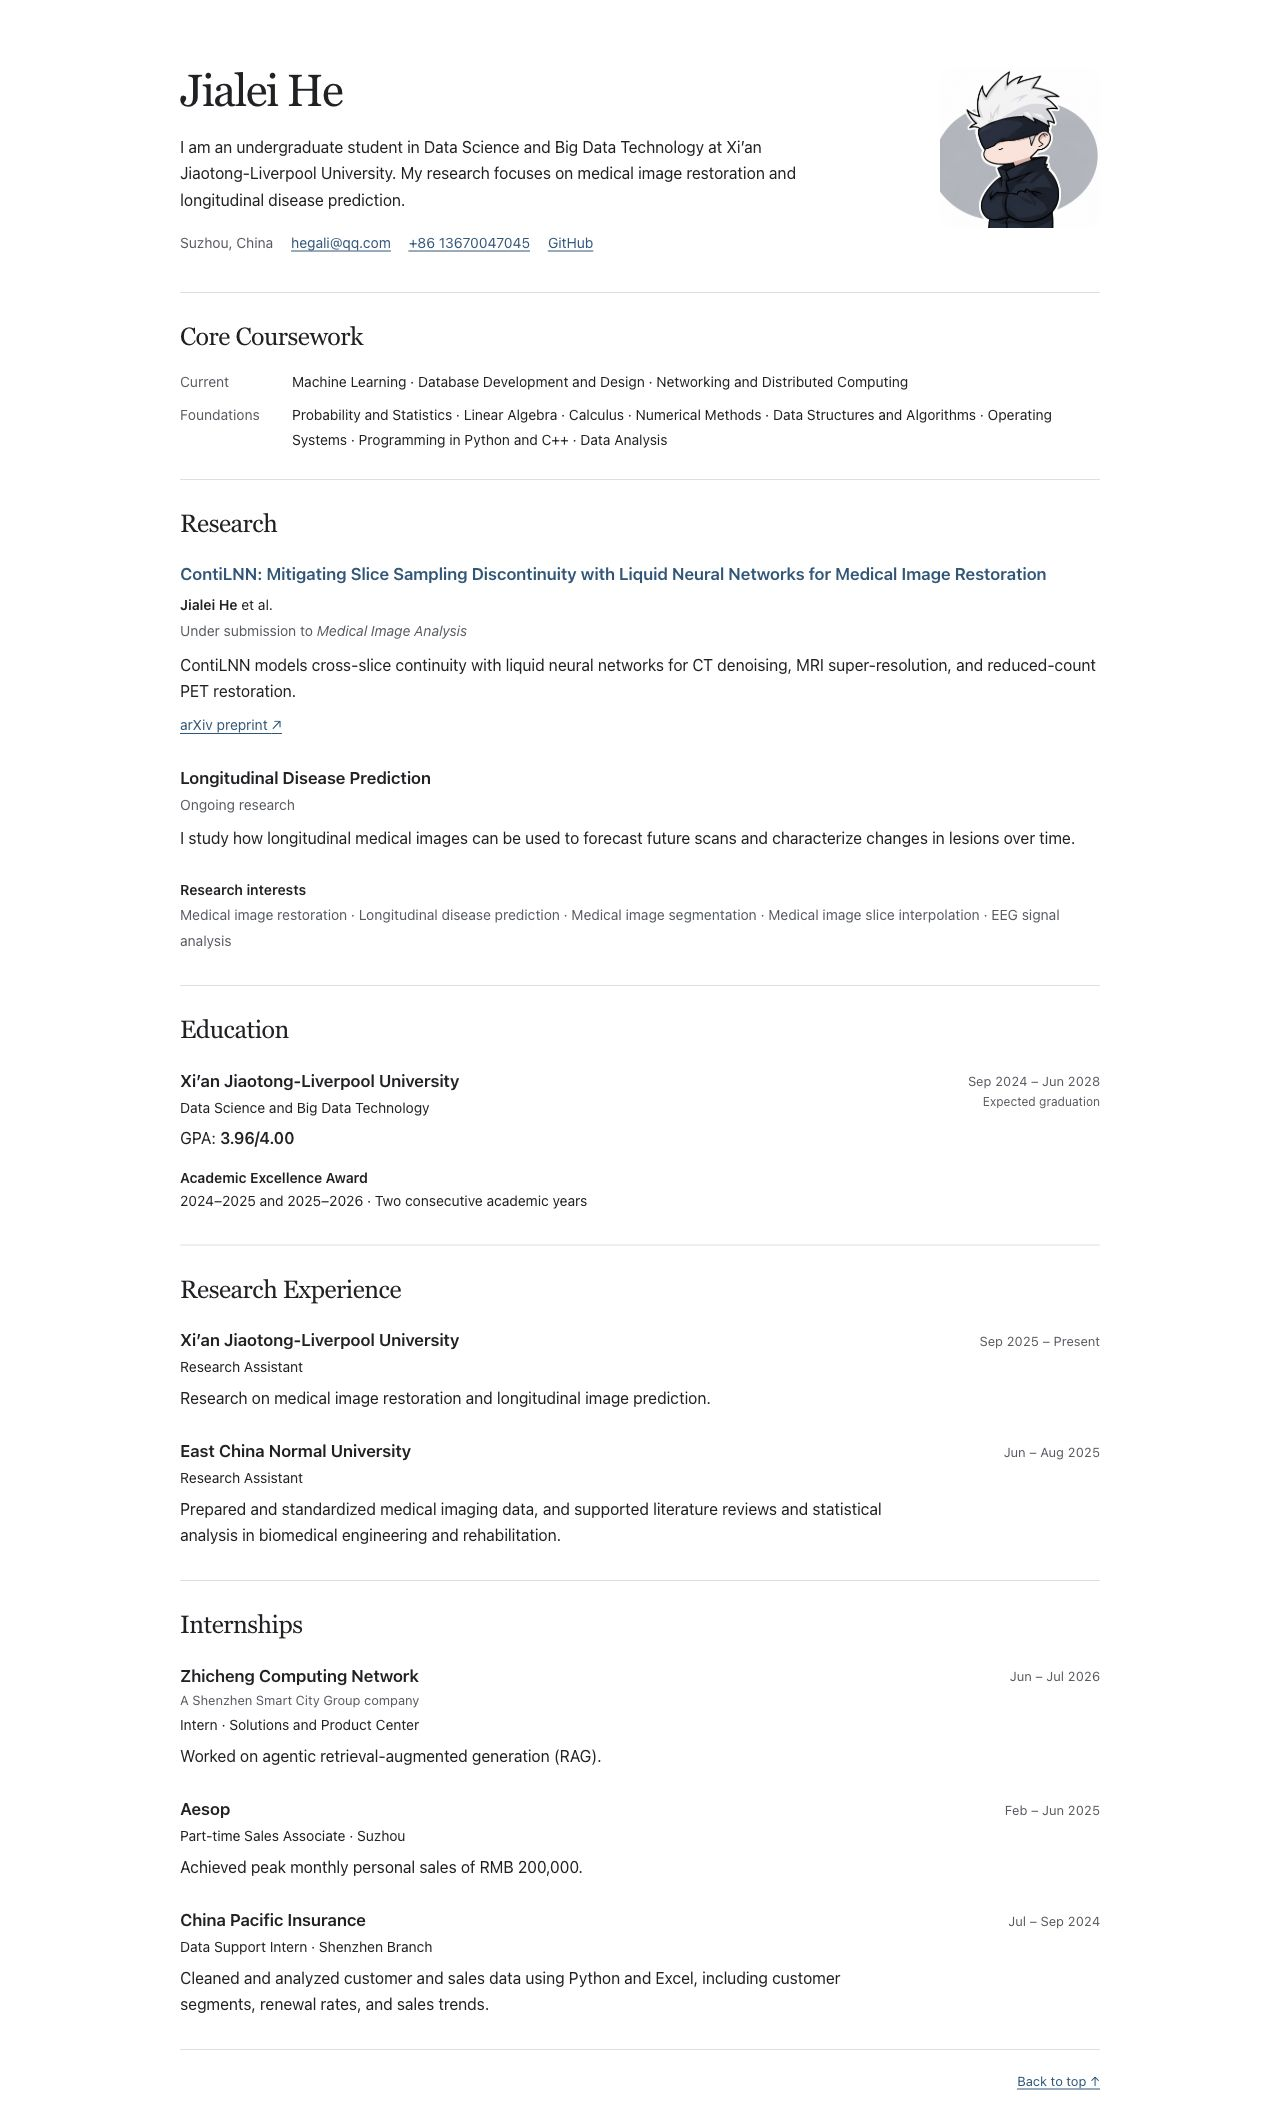
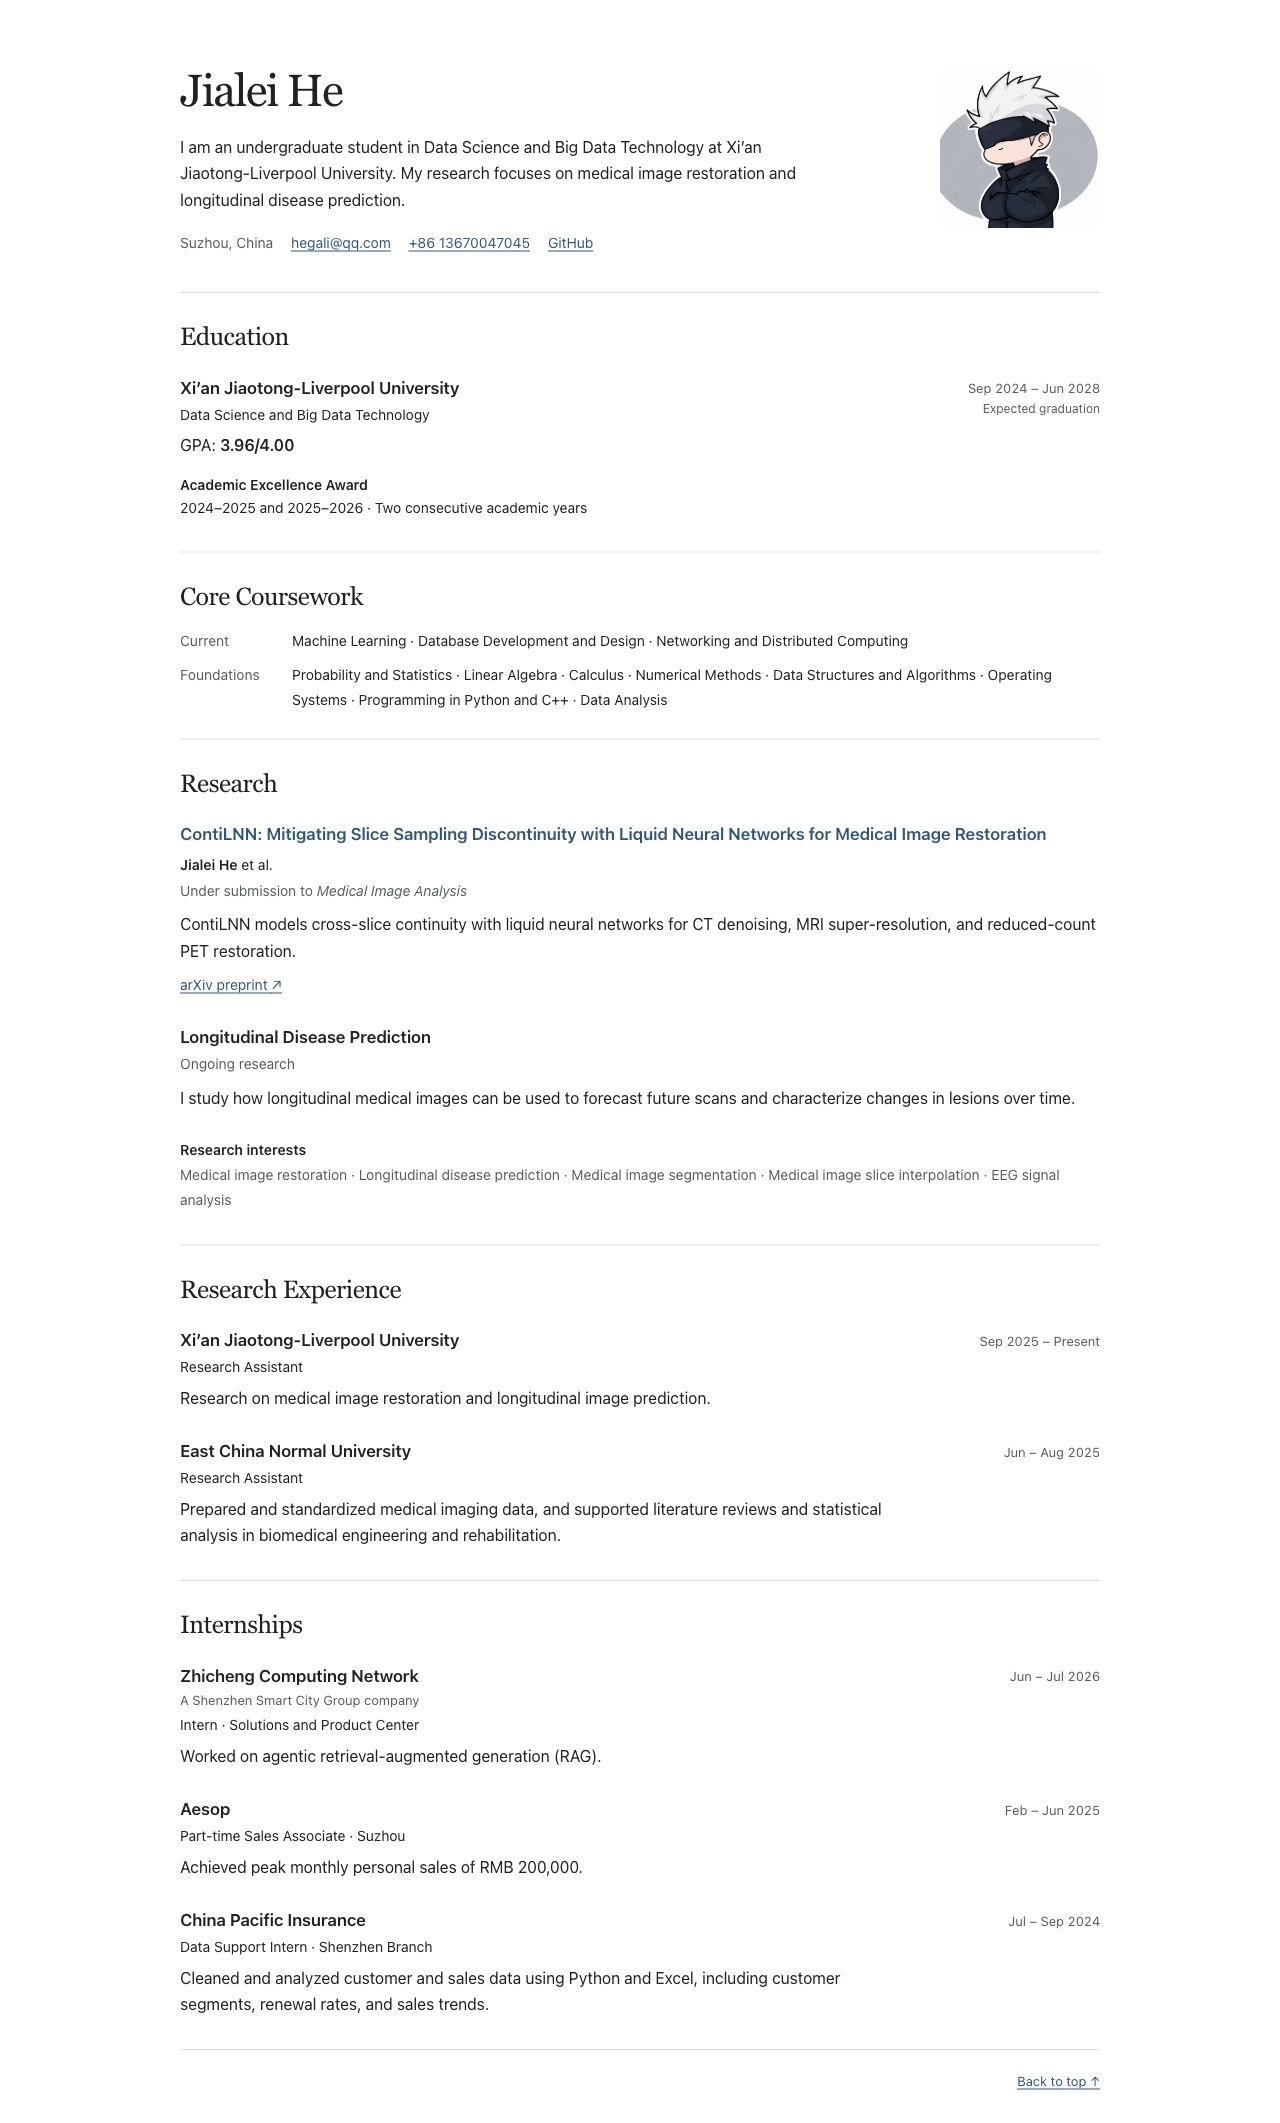
Place education before core coursework

diff --git a/index.html b/index.html
@@ -12,7 +12,7 @@
   <link rel="stylesheet" href="styles.css?v=20261018">
 </head>
 <body>
-  <a class="skip-link" href="#coursework">Skip to content</a>
+  <a class="skip-link" href="#education">Skip to content</a>
   <main>
     <header class="profile" aria-labelledby="name">
       <div class="profile-text">
@@ -27,6 +27,19 @@
       </div>
       <img class="avatar" src="assets/avatar.jpg" width="160" height="160" alt="Jialei’s illustrated avatar">
     </header>
+
+    <section id="education" aria-labelledby="education-heading">
+      <h2 id="education-heading">Education</h2>
+      <div class="entry">
+        <div class="entry-body">
+          <h3>Xi’an Jiaotong-Liverpool University</h3>
+          <p class="role">Data Science and Big Data Technology</p>
+          <p>GPA: <strong>3.96/4.00</strong></p>
+          <p class="award"><strong>Academic Excellence Award</strong><br>2024–2025 and 2025–2026 · Two consecutive academic years</p>
+        </div>
+        <p class="entry-date">Sep 2024 – Jun 2028<span>Expected graduation</span></p>
+      </div>
+    </section>
 
     <section id="coursework" class="coursework" aria-labelledby="coursework-heading">
       <h2 id="coursework-heading">Core Coursework</h2>
@@ -57,19 +70,6 @@
         <p>I study how longitudinal medical images can be used to forecast future scans and characterize changes in lesions over time.</p>
       </article>
       <p class="research-interests"><strong>Research interests</strong><br>Medical image restoration · Longitudinal disease prediction · Medical image segmentation · Medical image slice interpolation · EEG signal analysis</p>
-    </section>
-
-    <section id="education" aria-labelledby="education-heading">
-      <h2 id="education-heading">Education</h2>
-      <div class="entry">
-        <div class="entry-body">
-          <h3>Xi’an Jiaotong-Liverpool University</h3>
-          <p class="role">Data Science and Big Data Technology</p>
-          <p>GPA: <strong>3.96/4.00</strong></p>
-          <p class="award"><strong>Academic Excellence Award</strong><br>2024–2025 and 2025–2026 · Two consecutive academic years</p>
-        </div>
-        <p class="entry-date">Sep 2024 – Jun 2028<span>Expected graduation</span></p>
-      </div>
     </section>
 
     <section id="research-experience" aria-labelledby="research-experience-heading">
